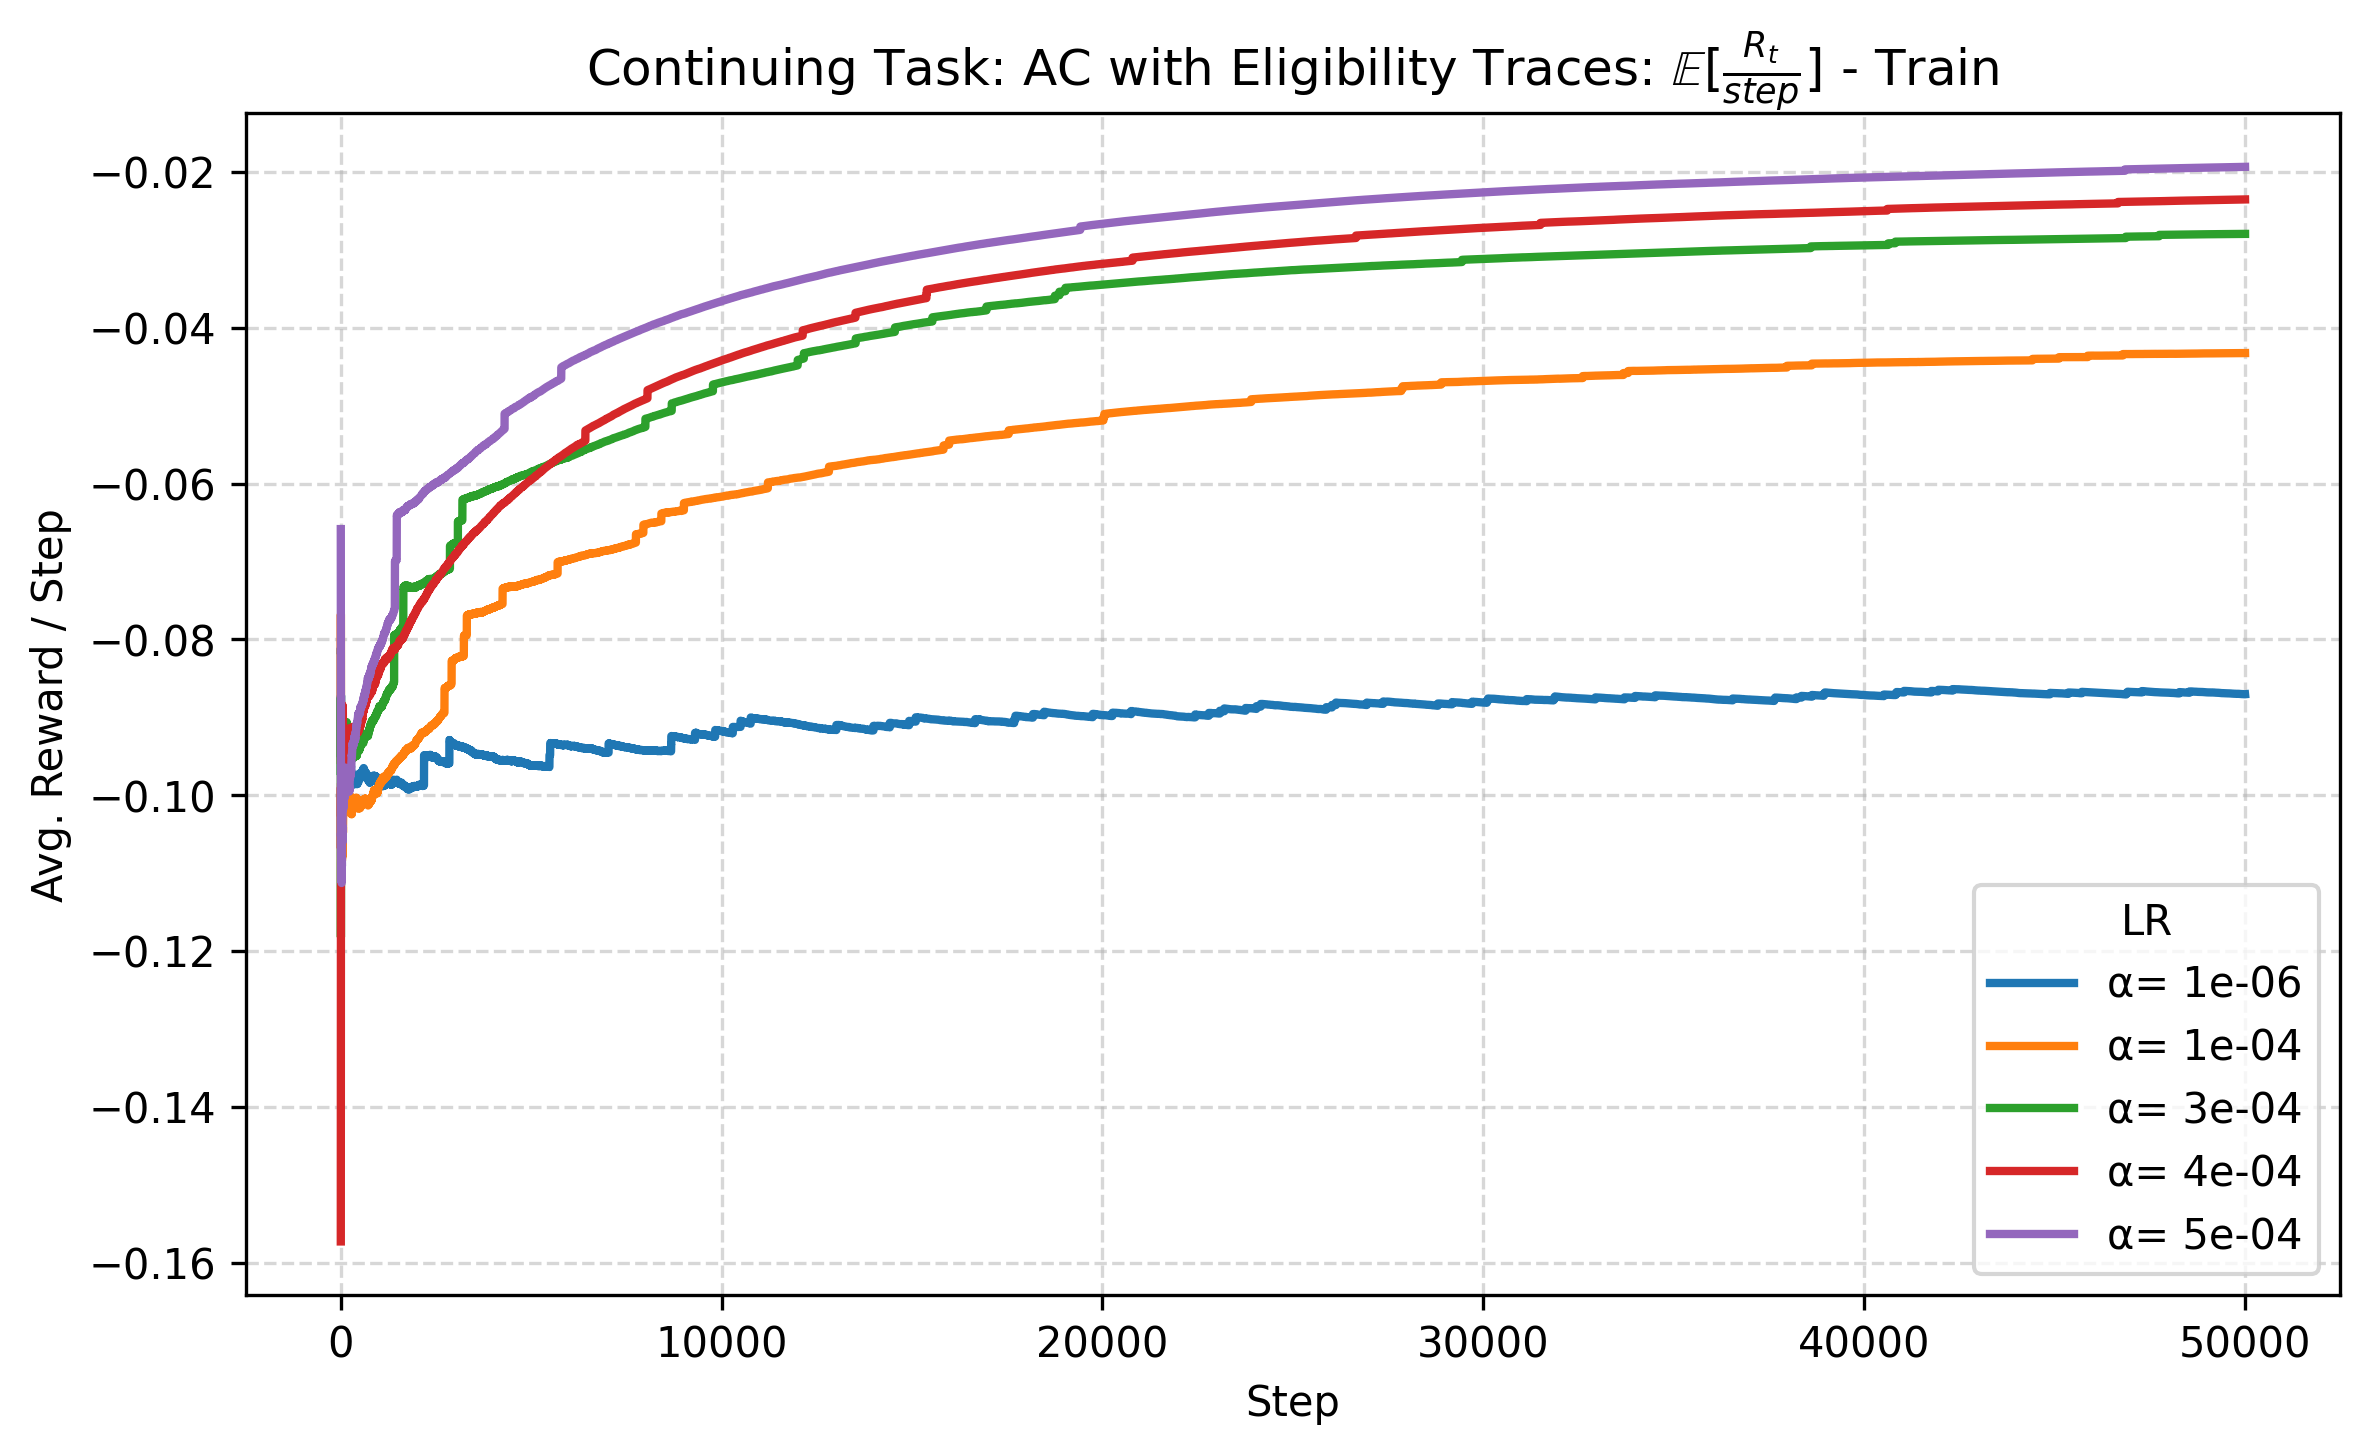
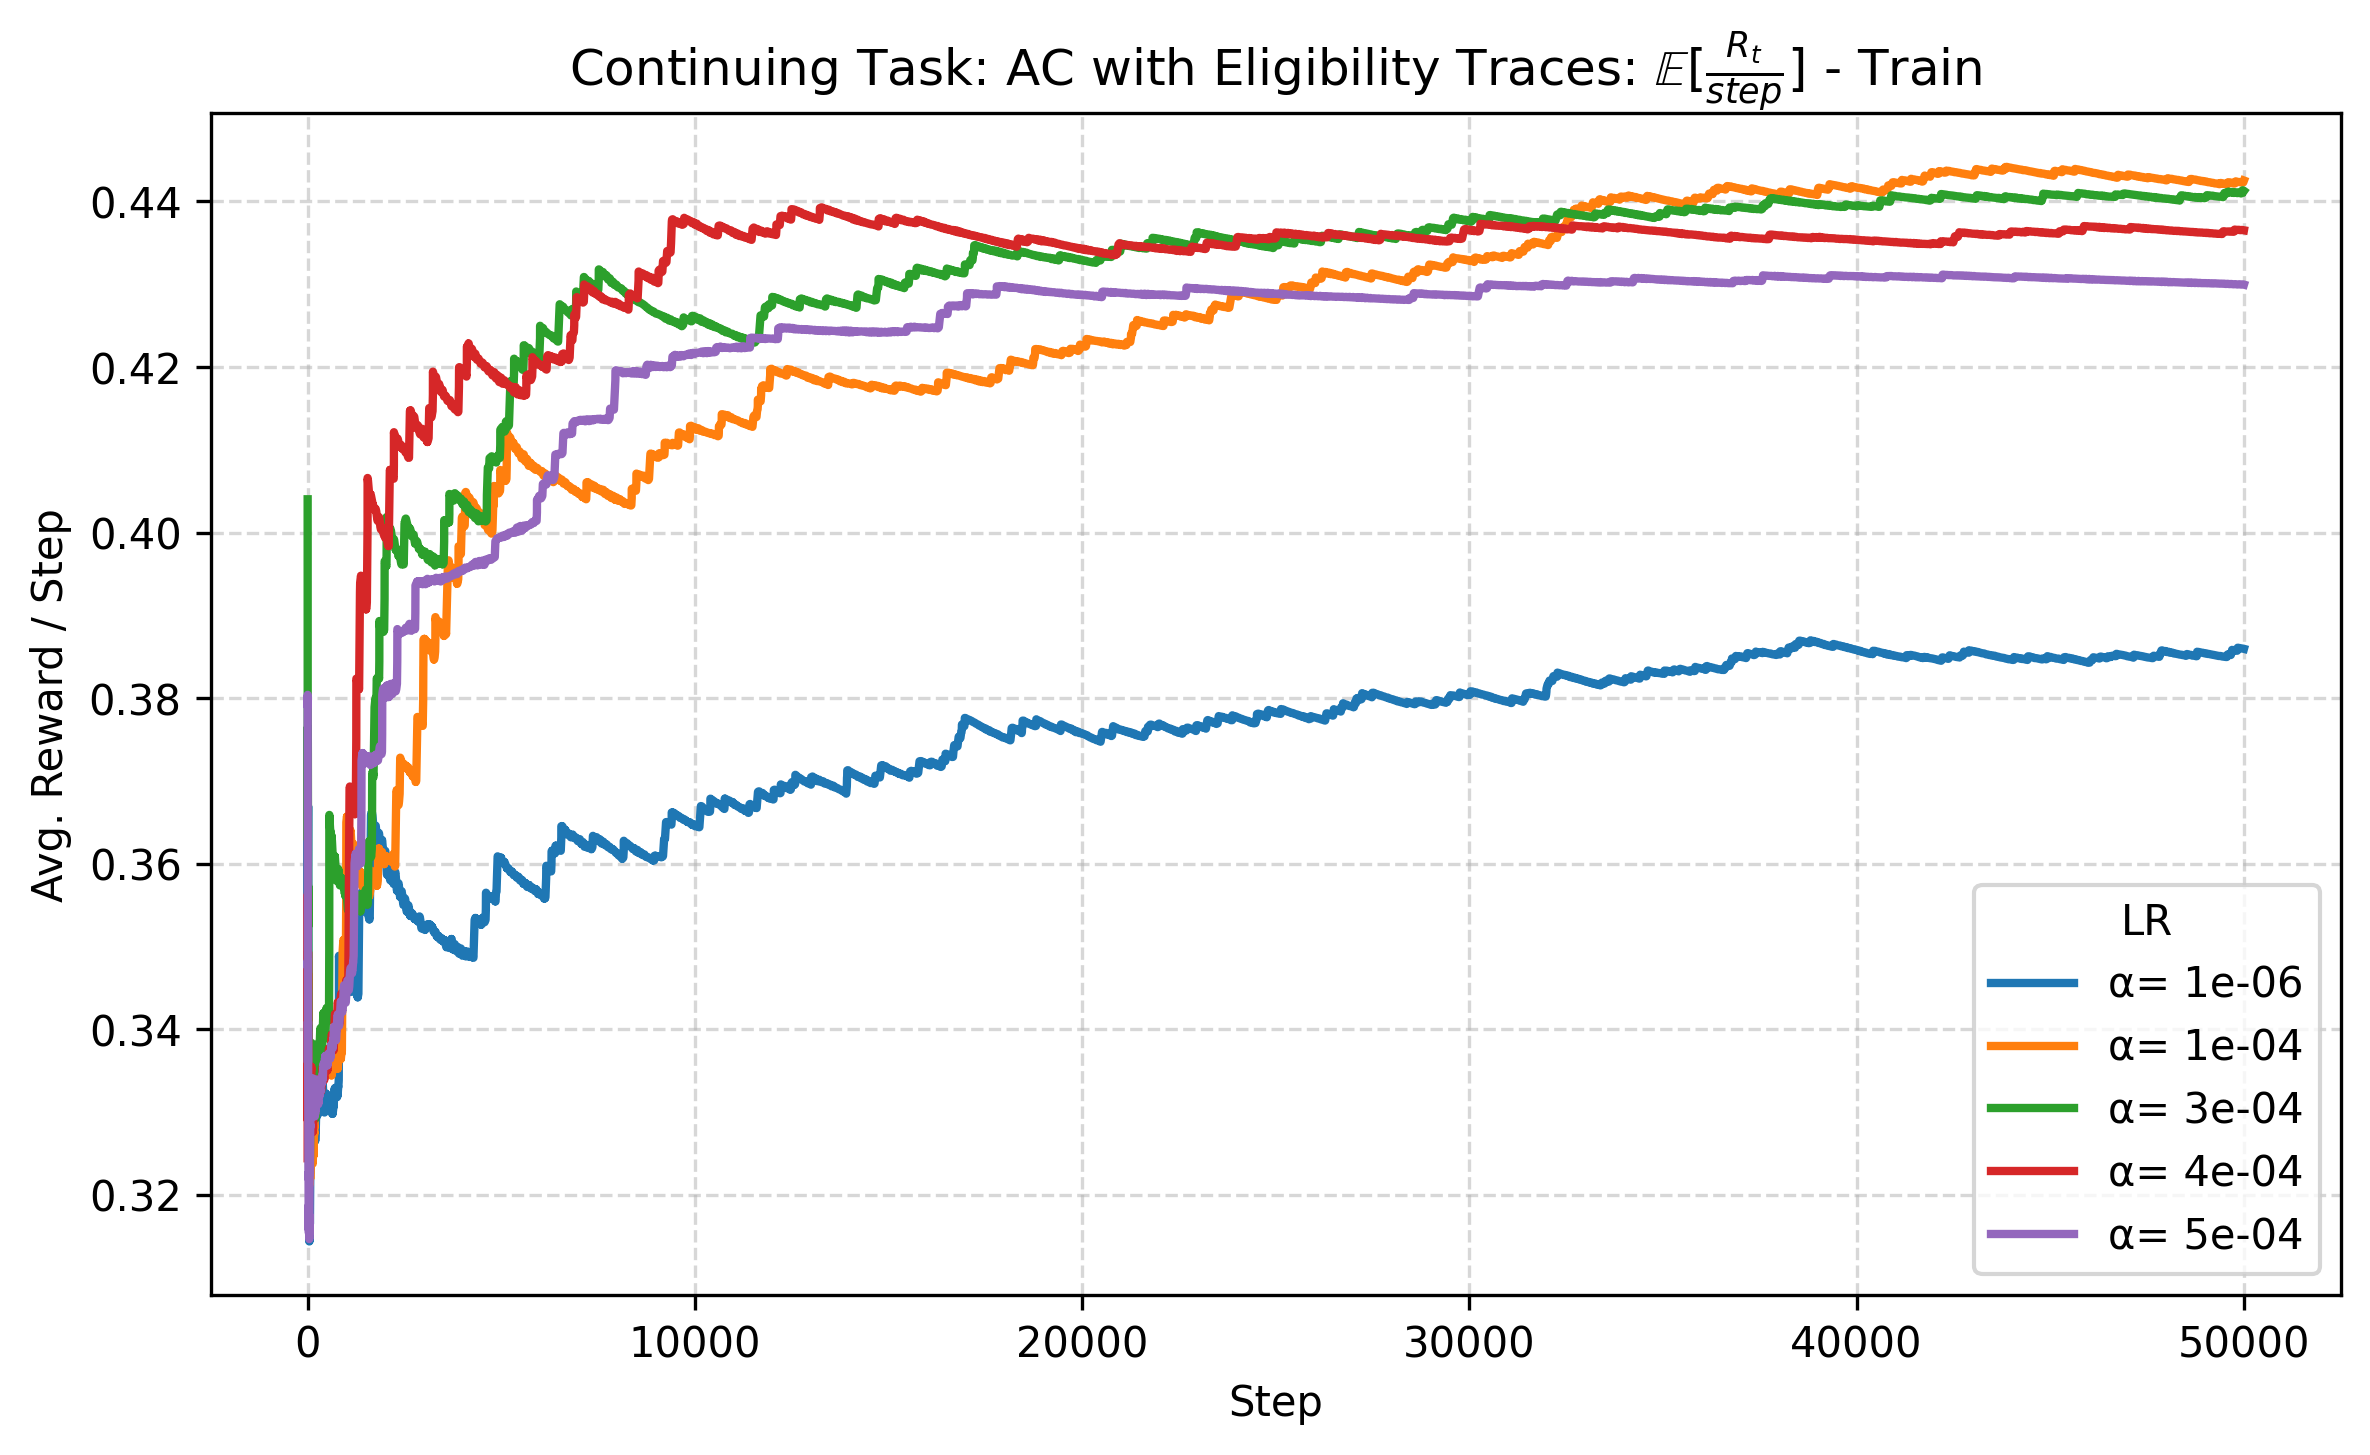
Update reward function for continuing task.

diff --git a/policy_gradient/main_continuous_action.py b/policy_gradient/main_continuous_action.py
@@ -1066,7 +1066,7 @@ if __name__ == '__main__':
             model='ACWithEligibilityTracesContinuousActionContinuingTask',
             num_episodes=num_episodes,
             T=T,
-            reward_shaper=base_reward,
+            reward_shaper=mountaincar_continuous_reward,
             alphas=alphas,
             alpha_builder=build_alpha_sched,
             num_experiments=num_experiments,
